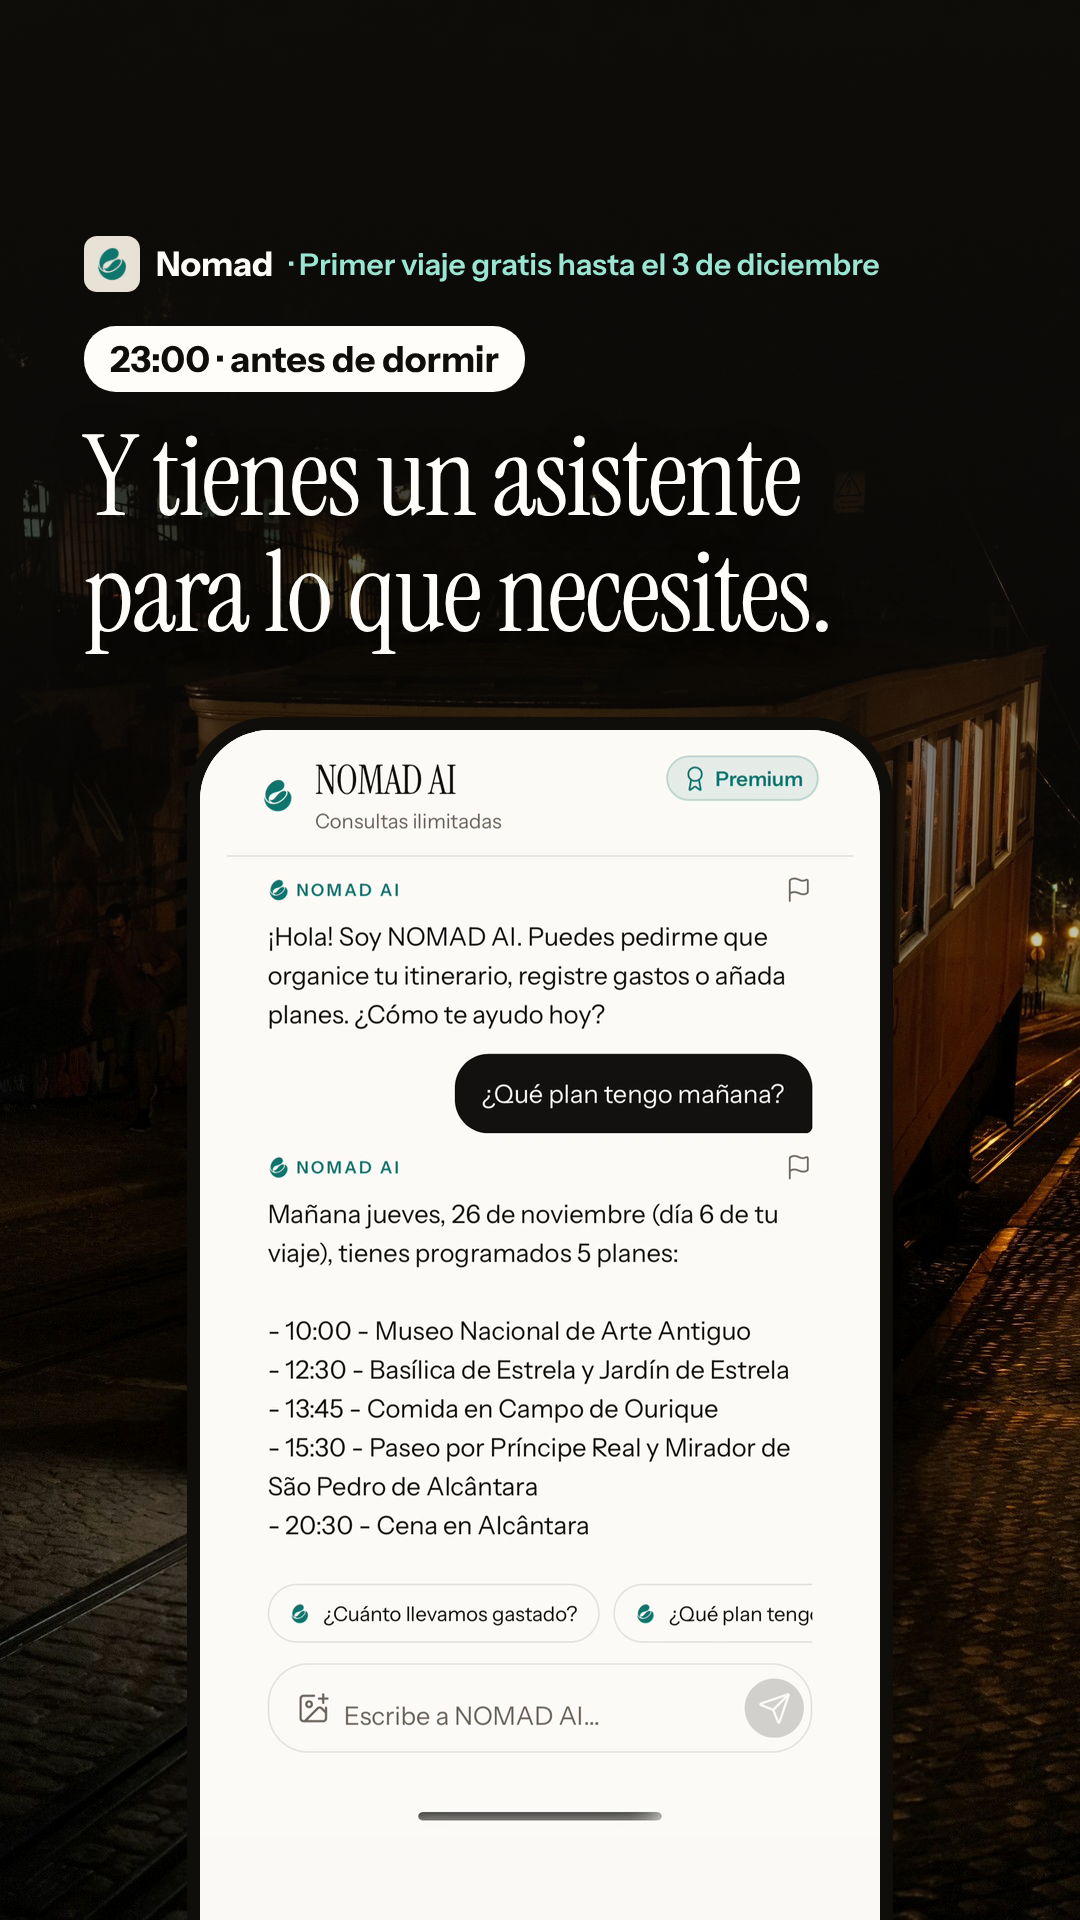
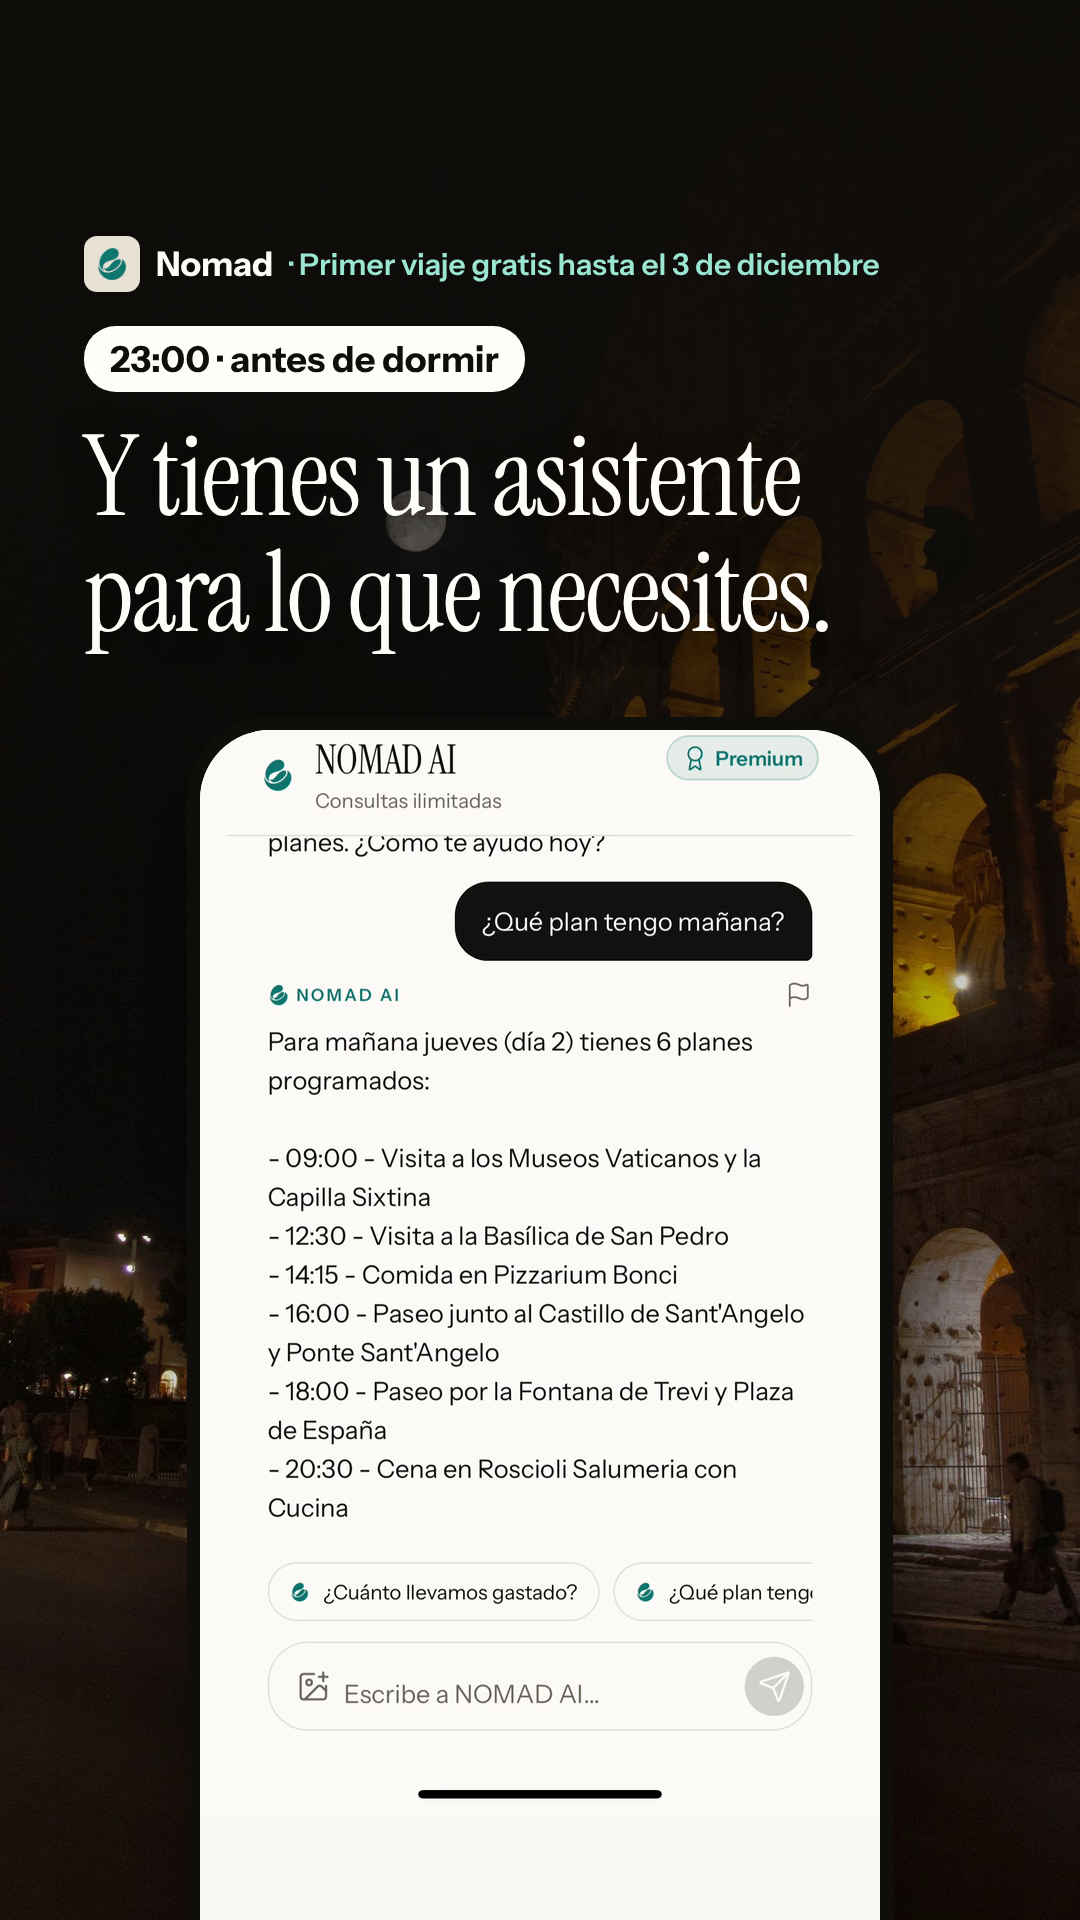
Primer viaje gratis: el README, el pie y los fotogramas de revisión, en Roma
Claude-Session: https://claude.ai/code/session_01NwC7E7vKftdeyFydeH4Mhu

diff --git a/piezas/historias-animadas/primer-viaje-gratis/README.md b/piezas/historias-animadas/primer-viaje-gratis/README.md
@@ -1,30 +1,32 @@
 # Tu primer viaje, gratis (25-nov) — el reel del Black Friday
 
-Un reel de **32 s** para la semana del Black Friday: el primer viaje de cada cuenta es gratis (NOMAD#479).
+Un reel de **34 s** para la semana del Black Friday: el primer viaje de cada cuenta es gratis (NOMAD#479).
 Los textos de la campaña están en la issue #23.
 
 **Lo pidió el dueño así** (24-nov): montado entero aquí, sin ningún vídeo suyo, antes de tocar la app, y que
 enganche. Por eso la pantalla de pago con «Gratis» no sale: todavía no existe en ningún móvil, y una
 captura inventada sería una maqueta. La oferta va en una tarjeta de texto.
 
-## La idea: un día de viaje
+## La idea: un día de viaje en Roma
 
-Un día en Lisboa, de la mañana a la noche. En cada momento del día, una foto de la ciudad, la hora, lo que
-hace Nomad en ese momento y, en un móvil, **la app haciéndolo de verdad** (grabada, no capturas quietas).
+La oferta, y después un día en Roma, de la mañana a la noche. En cada momento del día, una foto de la
+ciudad, la hora, lo que hace Nomad en ese momento y, en un móvil, **la app haciéndolo de verdad** (grabada,
+no capturas quietas). Era Lisboa hasta que el dueño lo vio: **«no quiero que sea Lisboa, ya hicimos un reel
+con Lisboa. Haz uno con otra ciudad»** (25-nov). Eligió Roma.
 
 | seg. | la foto y la hora | en el móvil | qué se oye |
 |---|---|---|---|
 | 0-2,9 | **El gancho**, sobre el verde de la oferta, ya en el fotograma 0: el icono, «Tu primer viaje con Nomad, **gratis.**» y debajo sus dos condiciones. «gratis» late cuando suena | — | Kore: «Tu primer viaje con Nomad, gratis.» |
-| 2,9-6,3 | El tranvía de la Bica. «¿Qué es Nomad?» y, con su voz, «Tu imprescindible para viajar.» | — | «¿Qué es Nomad? Tu imprescindible para viajar.» |
-| 6,3-9,1 | Una terraza. **09:00 · antes de salir** | El móvil sube. El plan pasa del sábado al domingo y al lunes | «Te organiza el viaje, día a día.» |
-| 9,1-15,4 | La Praça do Comércio. **10:30 · en la plaza** | El plan del sábado, «Iniciar tour», «¿Qué visita quieres?», y la parada 1 en el mapa con el toque de reproducir la audioguía. Arriba, lo que dice, palabra a palabra | Kore: «Te cuenta lo que tienes delante.» Charon, la audioguía: «Estás en el centro neurálgico de la reconstrucción de Lisboa.» |
-| 15,4-18,2 | Pasteles de nata. **13:30 · a la hora de comer** | La lista de Lugares y, al tocar «Comida», sólo los sitios para comer | «Te recomienda qué ver y dónde comer.» |
-| 18,2-20,6 | El puente al atardecer. **19:30 · al caer la tarde** | Gastos: lo que lleva el grupo, «Para quedar en paz» y el historial | «Lleva las cuentas del grupo.» |
-| 20,6-24,5 | El elevador da Glória de noche. **23:00 · antes de dormir** | NOMAD AI: «¿Qué plan tengo mañana?» y su respuesta | «Y tienes un asistente para lo que necesites durante el viaje.» |
-| 24,5-28,6 | La oferta, sobre verde: «Tu primer viaje, gratis.» y sus dos condiciones | — | «Esta semana, tu primer viaje es gratis.» |
-| 28,6-32,2 | El cierre, quieto: el icono, el nombre, las dos tiendas, la oferta con sus condiciones y el precio de después | — | «Descárgala en la App Store o en Google Play.» |
+| 2,9-6,3 | Un callejón empedrado. «¿Qué es Nomad?» y, con su voz, «Tu imprescindible para viajar.» | — | «¿Qué es Nomad? Tu imprescindible para viajar.» |
+| 6,3-9,1 | Un desayuno en una terraza. **09:00 · antes de salir** | El móvil sube. El plan pasa del miércoles al jueves y al viernes | «Te organiza el viaje, día a día.» |
+| 9,1-17,5 | La Piazza Navona. **11:00 · en la plaza** | «¿Qué visita quieres?» con «Media» elegida, y la parada 1 del paseo, la Piazza Navona, en el mapa, con el toque de reproducir la audioguía. Arriba, lo que dice, palabra a palabra | Kore: «Te cuenta lo que tienes delante.» Charon, la audioguía: «Esta plaza no nació como espacio público barroco, sino como un estadio romano de atletismo.» |
+| 17,5-20,3 | Un plato de pasta. **14:00 · a la hora de comer** | Lugares con «Comida» elegida: Armando al Pantheon, Da Enzo al 29, Roscioli, Pizzarium Bonci… | «Te recomienda qué ver y dónde comer.» |
+| 20,3-22,7 | San Pedro y el Tíber al atardecer. **19:30 · al caer la tarde** | Gastos: 121,40 € del grupo, «Para quedar en paz» (María te paga 20,70 €) y el historial | «Lleva las cuentas del grupo.» |
+| 22,7-26,6 | El Coliseo de noche. **23:00 · antes de dormir** | NOMAD AI: «¿Qué plan tengo mañana?» y su respuesta, los seis planes del jueves | «Y tienes un asistente para lo que necesites durante el viaje.» |
+| 26,6-30,7 | La oferta, sobre verde: «Tu primer viaje, gratis.» y sus dos condiciones | — | «Esta semana, tu primer viaje es gratis.» |
+| 30,7-34,3 | El cierre, quieto: el icono, el nombre, las dos tiendas, la oferta con sus condiciones y el precio de después | — | «Descárgala en la App Store o en Google Play.» |
 
-Arriba, durante el día de viaje (del 2,9 al 24,5), la firma: «Nomad · Primer viaje gratis hasta el 3 de
+Arriba, durante el día de viaje (del 2,9 al 26,6), la firma: «Nomad · Primer viaje gratis hasta el 3 de
 diciembre». Los cortes salen de la voz (`preparar-voz.py`), no al revés.
 
 ## El guion es del dueño
@@ -44,31 +46,40 @@ segunda frase, con su respuesta: «¿Qué es Nomad? Tu imprescindible para viaja
 ## Qué es de verdad y qué no
 
 - **Lo del móvil es la app grabada el 25-nov**, en el simulador de iPhone de un Mac de GitHub, con la
-  cuenta demo y su viaje a Lisboa (guion `reel` de `capturas/` del repo de la app; pasada 45566805840).
-  Nadie ha pintado nada encima.
-- **Las tomas están cortadas y, alguna, un poco aceleradas.** Cada una dura lo que su frase. El plan va a
-  1,23×, los lugares a 1,2× y las otras tres a su velocidad. Tres juntan dos trozos de la misma
-  grabación. En dos (el plan y el asistente), la pantalla es la misma a los dos lados del corte.
-  `tomas.json` dice qué trozos son.
+  cuenta demo y su viaje a Roma del 25 al 27 de noviembre (guion `reel-roma` de `capturas/` del repo de
+  la app; pasada 45582200945). Nadie ha pintado nada encima.
+- **El viaje de Roma de la cuenta demo se creó para esto**, con el permiso del dueño: es la copia del
+  viaje listo de Roma (R-4J2V6XYM), escrita por SQL con las mismas funciones que usa la app al copiar,
+  más la segunda cuenta demo («María») y tres gastos (`capturas/datos/roma-demo.sql` en el repo de la
+  app). Las actividades y los lugares son los del viaje listo, sin tocar. Los gastos los puso esta
+  sesión: no los escribió nadie desde la app.
+- **La guía del paseo la generó la app en la grabación** (get-smart-tour), y la parada 1 le salió la
+  Piazza Navona, la de la foto. Tampoco se tocó.
+- **Las tomas están cortadas y una va un poco acelerada.** Cada una dura lo que su frase. El plan va a
+  1,26× y las otras cuatro a su velocidad. Dos juntan dos trozos de la misma grabación: el plan (del
+  miércoles al jueves, y del jueves al viernes) y el paseo. `tomas.json` dice qué trozos son.
 - **La del paseo da un salto.** Pasa de «¿Qué visita quieres?» a la parada 1. En medio, en la app, se
-  elige la duración, se espera a que el tour esté hecho y sale su presentación. Eso no está en el vídeo.
-- **La espera de NOMAD AI está acortada.** En la grabación, la respuesta tarda 2,8 s desde la pregunta.
-  En el vídeo, 1,6 s: se quitaron 1,2 s de «Pensando…». La pregunta y la respuesta son las de verdad.
+  espera a que el tour esté hecho (unos 20 s la primera vez) y sale su presentación. Eso no está en el
+  vídeo: la portada del paseo es una foto de Commons con licencia CC BY-SA y aquí no entra.
+- **Lugares sale ya con «Comida» elegida.** Con «Todos», las fichas del Panteón, el Coliseo y San Pedro
+  llevan fotos de Commons con licencia CC BY y CC BY-SA (con su crédito en la app). Aquí no entran.
 - **La voz de la audioguía no es el sonido del simulador**, que graba sin sonido. Es la misma voz de la
-  app (Charon), con el modelo de la app y su instrucción de tono, diciendo la primera frase de «La
-  historia» de esa parada, que se lee al pie de la pantalla. En el móvil se ve el toque de reproducir.
-- **Las horas son del relato, no de la app.** Las 10:30 y las 13:30 coinciden con el plan del sábado que
-  sale en el móvil (el paseo y la comida); las demás las pone el vídeo. Lo que enseña cada pantalla es lo
-  que tenía el viaje demo ese día: el asistente contesta por «mañana jueves, 26 de noviembre».
-- **Las fotos son de Lisboa, de Unsplash y de Pexels**, y van quietas y a sangre. Su origen está en
-  `banco/fotos/creditos.json` (las seis `f-lisboa-*`). No son de la app ni del viaje demo.
+  app (Charon), con el modelo de la app y su instrucción de tono, diciendo el principio de «La historia»
+  de la parada 1, que se lee al pie de la pantalla. La frase de la app sigue con «inaugurado en el siglo
+  I»: se cortó ahí para que la escena no pase de ocho segundos. En el móvil se ve el toque de reproducir.
+- **Las horas son las del plan del miércoles**: el paseo a las 11:00 y la comida a las 14:00. Las demás
+  las pone el vídeo. El asistente contesta por «mañana jueves», porque el viaje empezaba el día de la
+  grabación.
+- **Las fotos son de Roma, de Unsplash**, y van quietas y a sangre. Su origen está en
+  `banco/fotos/creditos.json` (las seis `f-roma-*`). Dos no dicen dónde se hicieron (el desayuno y la
+  pasta): hacen de desayuno y de comida, no de Roma. No son de la app ni del viaje demo.
 - **Las dos voces son voces de la app** (`mobile/src/lib/narrationVoices.ts`: Kore, Puck y Charon), con el
   modelo de la app (`gemini-3.1-flash-tts-preview`), a 1,15×.
 - **La música es de Lyria** (`lyria-3-clip-preview`, `musica-prompt.txt`) y las voces son sintéticas. Al
   publicar se marca la etiqueta de contenido hecho con IA.
 - **No sale ningún código de invitación, correo ni apellido.** Las grabaciones empiezan y acaban en
-  «Hoy», donde está el código del viaje demo: de ahí no se usa nada. En Gastos sale «María», el nombre
-  de pila de la otra cuenta de la demo.
+  «Hoy», donde está el código del viaje de Lisboa: de ahí no se usa nada. En Gastos sale «Maria», el
+  nombre de pila de la otra cuenta de la demo.
 
 ## Lo que el vídeo no puede dar a entender
 
@@ -109,6 +120,9 @@ Cuatro vueltas, y en cada una mandó lo que dijo el dueño al verla:
    eligió éste, y grabar la app en vez de usar capturas.
 5. Con éste montado: **«el gancho de que es gratis tiene que ser lo primero para retener a la gente»**.
    El vídeo abre con la oferta, y la pregunta va después.
+6. Con «gratis» delante, todavía en Lisboa: **«no quiero que sea Lisboa, ya hicimos un reel con Lisboa. Haz uno
+   con otra ciudad»**. Eligió Roma entre Roma, Praga, París y Viena, y dio permiso para crear el viaje en
+   la cuenta demo. Se grabó la app otra vez, en una pasada de Mac de 13 minutos.
 
 Lo que hay que llevarse: **una captura recortada y animada por encima (paneos, acercamientos, sombras) se
 lee como plantilla hecha por una máquina**. La app se enseña en su pantalla, y lo que se mueve es la app,
@@ -120,7 +134,7 @@ La primera versión la miraron cuatro revisores independientes. De ahí vienen, 
 entre x=180 y x=900, las condiciones de «gratis» a la vista desde «viaje», las insignias a 30 px, las dos
 líneas de marcas y el golpe de «gratis» saturado para que se oiga en un móvil.
 
-Esta versión la miraron otros cuatro, cada uno con una cosa: quien la ve sin sonido, las reglas de la
+La cuarta versión, todavía en Lisboa, la miraron otros cuatro, cada uno con una cosa: quien la ve sin sonido, las reglas de la
 casa, lo que promete frente a lo que hace la app, y que la pieza cuadre por dentro. Los siete hallazgos
 serios los intentó tumbar un escéptico cada uno: los siete se sostuvieron, casi todos con matices. Lo
 que se cambió:
@@ -143,9 +157,13 @@ Dos hallazgos más los resolvió después el dueño al pedir «gratis» lo prime
 «gratis» sin sus condiciones, y ya no tarda tres segundos en decir qué se ofrece.
 
 Lo que dijeron y se deja, porque es de gusto o del dueño: que la app no se ve hasta el segundo 6; que
-seis escenas con la misma composición se leen como
-plantilla; que el cierre cambia de fondo de golpe; que «Lugares · 14 guardados» parece una lista de
-favoritos más que de recomendaciones; y lo de «Lo que falta por confirmar», más arriba.
+seis escenas con la misma composición se leen como plantilla; que el cierre cambia de fondo de golpe; que
+«Lugares · 11 guardados» parece una lista de favoritos más que de recomendaciones; y lo de «Lo que falta
+por confirmar», más arriba.
+
+Los arreglos siguieron al pasar a Roma: son de la página, la voz y el corte, no de la ciudad. Lo que cambió
+con Roma (las tomas, las fotos, la frase de la audioguía) se miró en una hoja de fotogramas por toma y en
+un fotograma por escena con la zona segura encima; la revisión de la versión de Roma está en la issue #23.
 
 **Lo que nadie ha comprobado**: cómo suena, y cómo se ve en un móvil.
 
@@ -162,7 +180,8 @@ bash variantes.sh <salida>                            # los vídeos, la portada 
 
 Para cambiar un texto (la fecha) basta el último paso. Las cinco tomas cortadas están en `assets/tomas/`.
 Las grabaciones enteras no están en el repo (ver `banco/metraje/README.md`): se sacan otra vez con el
-flujo «Capturas de la app» del repo de la app, guion `reel`. Si cambian los cortes de la voz, las tomas
+flujo «Capturas de la app» del repo de la app, guion `reel-roma`, sobre el viaje de Roma de la cuenta demo
+(si se borra, lo vuelve a crear `capturas/datos/roma-demo.sql`). Si cambian los cortes de la voz, las tomas
 hay que cortarlas otra vez, porque cada una dura lo que su frase.
 
 Las tomas crudas de voz que no se eligieron no se versionan: se regraban con `../../ia/voz.py`.
@@ -174,8 +193,8 @@ Las tomas crudas de voz que no se eligieron no se versionan: se regraban con `..
   trozo que empieza con la pantalla quieta pierde esa espera. Antes de buscar momentos o de cortar, se
   pasa a ritmo fijo (`fps=30`).
 - **Grabar no obliga a compilar la app.** El flujo de capturas guarda la app compilada. Con `app_de` se le
-  pide la de un commit que ya esté guardada. Esta pasada fueron 11 minutos de Mac, y cada minuto de Mac
-  cuenta por diez.
+  pide la de un commit que ya esté guardada. La pasada de Lisboa fueron 11 minutos de Mac y la de Roma 13,
+  y cada minuto de Mac cuenta por diez.
 - **El plan se abre en HOY cuando el viaje está en curso**, no en el primer día. El guion de la grabación
   toca el día que quiere enseñar.
 - **Dentro de una hoja que se arrastra, Maestro no ve casi nada**: los toques van por coordenadas.
@@ -186,6 +205,11 @@ Las tomas crudas de voz que no se eligieron no se versionan: se regraban con `..
 - **La portada de un tour en la app es una foto de Commons, y puede ser CC BY-SA.** La del paseo por la
   Baixa lo es (se lee su crédito en la pantalla). En este repo esas fotos sólo entran si lo decide el
   dueño, así que la presentación del paseo no sale: la toma arranca antes y sigue después.
+- **Una lista de sitios también puede llevar fotos con licencia de atribución.** En Lugares, con «Todos»,
+  el Panteón, el Coliseo y San Pedro llevan su foto de Commons y su crédito (CC BY-SA, CC BY). En Lisboa
+  no había ninguna y no se vio. Antes de usar una toma se mira qué fotos lleva dentro.
+- **Con dos viajes en curso, «Hoy» enseña el que empezó antes.** El de Lisboa (21-28 nov) tapa al de Roma
+  (25-27 nov), que sale debajo, en «Después de Lisboa». El flujo entra por esa fila.
 - **Una toma tiene que llenar el móvil.** Lo que se ve del móvil son 1.190 px. Si se enseña la pantalla
   desde muy abajo, la grabación se acaba antes y queda un hueco. `cortar-tomas.py` se para si pasa.
   Alargarla repitiendo su última fila no vale: esa fila lleva texto y salen rayas.

diff --git a/piezas/historias-animadas/primer-viaje-gratis/PUBLICAR.md b/piezas/historias-animadas/primer-viaje-gratis/PUBLICAR.md
@@ -12,7 +12,7 @@ la OTA y el interruptor). Antes, el vídeo anuncia algo que la app no hace.
 | `nomad-primer-viaje-gratis-anuncio-1080x1920.mp4` | Para Meta: sin «Enlace en el perfil», porque el anuncio lleva su botón |
 | `nomad-primer-viaje-gratis-portada-1080x1920.png` | La portada: la tarjeta de la oferta |
 
-1080 × 1920, 30 fps, 32 s, H.264 y AAC a -14 LUFS.
+1080 × 1920, 30 fps, 34 s, H.264 y AAC a -14 LUFS. La ciudad es Roma.
 
 ## Antes de subirlo
 
@@ -34,7 +34,7 @@ La primera línea es la que se ve sin abrirlo, y lleva lo primero lo mismo que e
 
 > Tu primer viaje con Nomad, gratis hasta el 3 de diciembre.
 >
-> ¿Qué es Nomad? Tu imprescindible para viajar. Te organiza el viaje día a día. Te cuenta lo que tienes delante, con audioguía. Te recomienda qué ver y dónde comer. Lleva las cuentas del grupo. Y tiene un asistente para lo que necesites durante el viaje.
+> Un día en Roma con Nomad. ¿Qué es? Tu imprescindible para viajar. Te organiza el viaje día a día. Te cuenta lo que tienes delante, con audioguía. Te recomienda qué ver y dónde comer. Lleva las cuentas del grupo. Y tiene un asistente para lo que necesites durante el viaje.
 >
 > 👉 Enlace en el perfil.
 >
